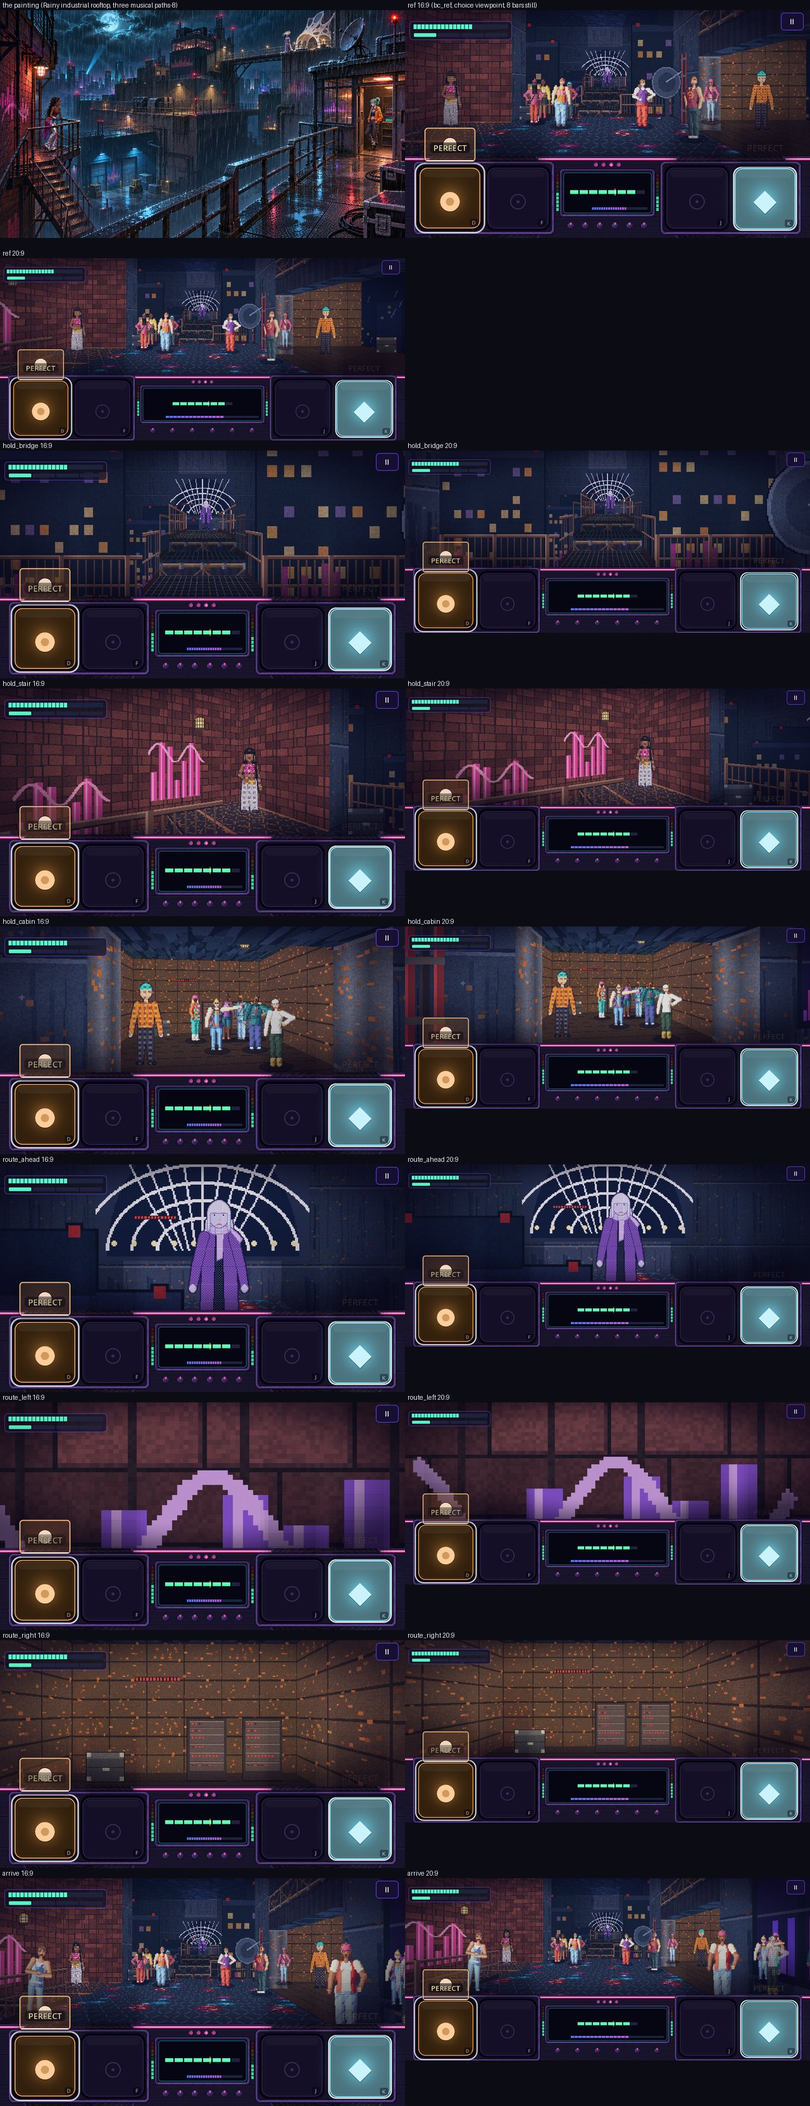
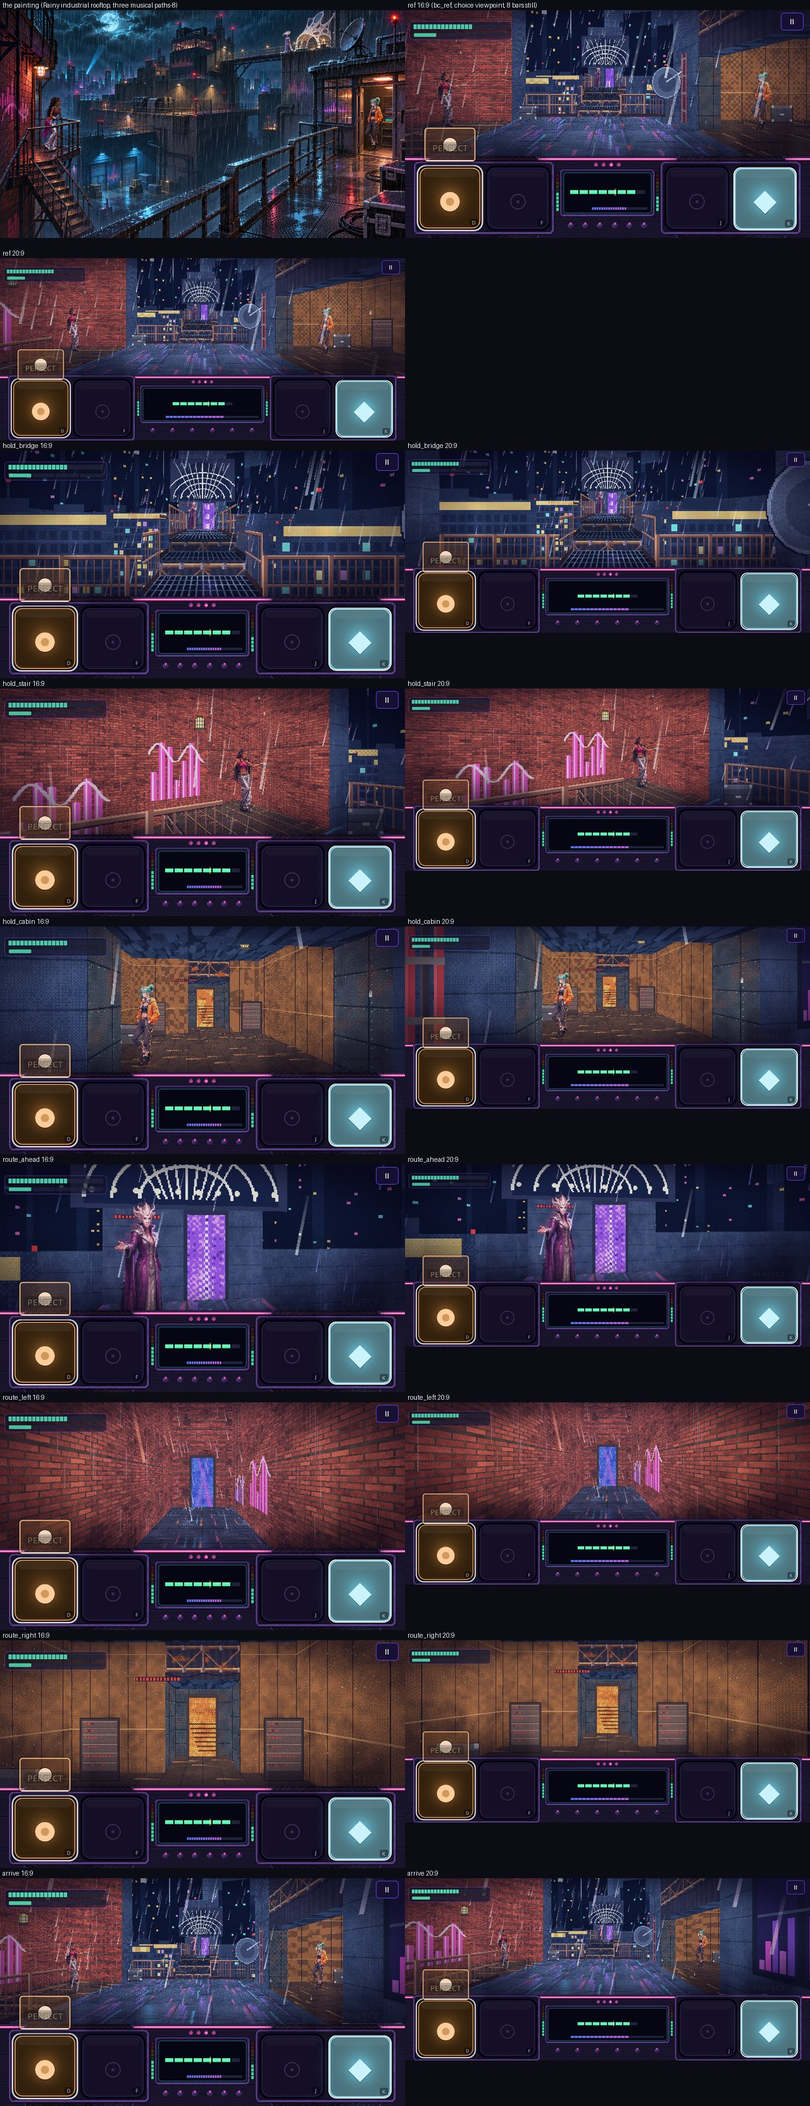
Doom polish B: Dock, Balcony, Booth reshot, scene docs rewritten (five differences, matches, does not, exposure per shot, crop per guide), Booth test block follows the desk on the floor, Booth darker haze and wider foam/cladding ramps

Changed region(s): [[0.0, 0.125, 1.0, 1.0], [0.5, 0.0, 1.0, 0.125], [0.5, 0.5312, 0.9375, 0.625]]

diff --git a/tools/doom/art/make_booth_polish.py b/tools/doom/art/make_booth_polish.py
@@ -62,7 +62,7 @@ def wall_foam():
             v = np.clip(0.25 + 0.6 * (1 - np.abs(rib - 0.35) * 2.2), 0, 1)
             v = v + (dk.vnoise(T, T, int(rng.integers(1 << 30)), ((8, 0.5), (32, 0.5))) - 0.5) * 0.25
             sel = (yy >= py) & (yy < py + 64) & (xx >= px) & (xx < px + 64)
-            arr[sel] = dk.ramp(np.clip(v[sel], 0, 1)[None, :], ("#141408", "#262612", "#3a3a1c", "#52522a", "#6e6c3a"), cell=2)[0]
+            arr[sel] = dk.ramp(np.clip(v[sel], 0, 1)[None, :], ("#0c0c04", "#22220e", "#3a3a1c", "#5a5a2e", "#8a8648"), cell=2)[0]
     for k in range(0, T, 64):
         arr[k:k + 2, :] = dk.hexa("#0a0a06")
         arr[:, k:k + 2] = dk.hexa("#0a0a06")
@@ -125,7 +125,7 @@ def shutter_open():
 
 def wall_dock():
     """The dock annex and the balcony walls: corrugated steel cladding (vertical ribs lit on one side), rust runs, rain streaks."""
-    arr = dk.ramp(dk.vnoise(T, T, 651, ((4, 0.5), (16, 0.5))) * 0.5 + 0.25, ("#1a1410", "#2e241a", "#443424", "#5c4630", "#7a5c3c"), cell=2)
+    arr = dk.ramp(dk.vnoise(T, T, 651, ((4, 0.5), (16, 0.5))) * 0.5 + 0.25, ("#120e0a", "#2a2018", "#443424", "#64503a", "#94724c"), cell=2)
     yy, xx = np.indices((T, T))
     rib = (xx % 16) / 16.0
     arr *= (0.75 + 0.45 * np.clip(1 - np.abs(rib - 0.3) * 3, 0, 1))[..., None]

diff --git a/tools/doom/author_booth.py b/tools/doom/author_booth.py
@@ -297,7 +297,7 @@ def main():
     barriers(d, names)
     d["sky"] = dict(SKY)
     d["weather"] = {"rain": WEATHER["rain"], "wind": WEATHER["wind"], "drips": [dict(x) for x in WEATHER["drips"]]}
-    d["fog"] = {"color": "#2a1618", "density": 0.018}
+    d["fog"] = {"color": "#1a0e10", "density": 0.018}
     d["palette_weight"] = 1.0
     # things
     things = [t for t in d["things"] if not str(t["id"]).startswith("bt_")]

diff --git a/docs/doom/scenes/balcony.md b/docs/doom/scenes/balcony.md
@@ -27,16 +27,39 @@ Rail (`tools/run/make_doom_balcony.py`, merged by `make_doom.py`): stay loop = b
 `contact.jpg` (the painting beside `bc_ref`, then every viewpoint as a 16:9 | 20:9 pair) and `walk_strip.jpg` (three routes, six frames each; pose tables `walk_up.txt`, `walk_left.txt`, `walk_right.txt`). Regenerate: `python3 tools/doom/shoot_balcony.py`.
 frame_check over the shots: p50 0.08, p95-p5 0.37: **under-exposed** (target p50 0.25 to 0.38); the rooftop is darker than the painting.
 
-**What matches the painting:** the three guides at three ways off the roof (brick-stair landing left, lit cabin door right, the bridge and lace dome ahead), the red brick wall with pink equalizer graffiti, the railed stair, the amber cabin, the violet window,
-railings on every edge, the dark drop with towers and red lamps beyond, a wet blue-grey night palette.
+## Stage D polish, round 1 (docs/briefs/DOOM_POLISH_BRIEF.md)
 
-**What does not:** no rain, no moon, no puddle reflections that move (floor tile only), no cloud sky (a flat storm ceiling); the far buildings are billboards and decals, not geometry, so there is no stepped skyline and no high walkway on the right; the deck is a plain
-rectangle (no pipes along the cabin wall, no roof parapet); the stair is a straight run of five treads (the painting's turns); the Night One crowd stands on the deck and in the cabin and crowds the middle of the reference view (the painting is empty); the Mothership
-guide is small (73 px). All figures and art are procedural placeholders.
+**The five biggest differences from the painting at `bc_ref`, written before changing anything:**
+
+1. The sky and the city: the painting has a full moon in torn cloud, a searchlight and a deep skyline of dark towers with lit windows over the drop; the scene had a flat ceiling tile 8 m up and the drops' walls rose to it, so no sky and no city.
+2. The Night One crowd filled the deck and the cabin (the painting's roof is empty but for the three guides).
+3. Exposure: p50 0.17, p95 - p5 0.37 over the shots (under), against the painting's moonlit blue with warm cabin light.
+4. The three thresholds stared at walls: the stair foot at a brick wall a metre away, the cabin's hold at its back wall, the bridge end at the tower's blank base.
+5. The guides were procedural placeholders (the Lounge's Floor sprite, recolours), and the surfaces flat 128 px tiles (no wet diamond plate, no puddle reflections, no rain).
+
+**What was done about each:** (1) the map's `sky` (`bc_sky.png`: moon at the upper left of the view north, two searchlight beams, a three-layer skyline with amber/violet/cyan windows and red mast lamps) on every open sector; the drops' ceilings lowered to 2.4 m (`balcony_scene.py`) so their far walls stop under a metre above the eye and the sky shows over them, `upper_tex: sky` between open sectors; three 256 px tower billboards (dark floor bands, sparse lit windows, a lit penthouse band, roof plant, a red mast lamp) in place of the flat ones; (2) the cast is empty (`story_doom_balcony.json`, no homes); (3) light 1.0 with `ambient` 0.62-0.75, lamp pools on the deck (moon blue, a red and a cyan puddle light, the cabin door's amber spill, a brick wash), lights on the towers, a lighter haze (`#1c2848`); (4) new geometry: an **alley** (3 x 7 m) runs south from the stair's foot to the club's lit side door (`bc_alley_door`, emissive, with its blue spill and an orange lamp), the cabin has a **back door** (`cback`, 1.5 x 2 m) onto a warm-lit stairwell going down (`bc_stair_glow`, emissive), and the tower base on the platform has a lit violet **door** under the lace dome; each threshold hold faces its opening; (5) guides cropped (below), 256 px tiles on the Dock's helpers (wet diamond plate with magenta/cyan/red/amber gloss and ripples, iron chequer treads with lit nosings, bar grating over the drop, riveted rusty steel, rain-streaked concrete, panelled cabin wall with rack LEDs, two brick faces), rain 0.85 with wind -12, drips at the cabin's eave and at the stair head, the cabin's door floor wet.
+
+**Matches now:** the three guides at the three ways off the roof (the brick stair landing left, the cabin doorway right, the bridge and the lace dome ahead); the moon and the city over the drop; rain on the open roof lit by the lamps; the wet deck's coloured reflections; the amber cabin against the cool blue night; an empty roof.
+
+**Does not match:** the far city is billboards (flat towers that turn with the camera) and a sky strip, not the painting's stepped roofs and high walkway; the moon is visible from the bridge and stair views, not prominent at `bc_ref` (the towers stand in front of it); the stair is five straight treads (the painting's turns); there is no parapet or pipe run along the cabin wall; the satellite dish and the lace dome are the earlier flat placeholders; the drops are dark pits (no lit yard with the forklift reads at this exposure); `hold_bridge` and `route_ahead` stay under the median (they look into the dark drop).
+
+**Guides (ruling 36):** all three CROPPED (`tools/doom/art/make_dock_crop.py`, `make_balcony_guides.main_cropped`): the **Booth** guide from this painting (`booth_balcony8`, 225 px tall there, leaning in the cabin door; a polygon outline, the dark door's colours dropped, the boots kept by hand); the **Floor** guide from the Dock's painting (`floor_dock`, 350 px there; in this painting the stair's railing crosses her legs); the **Mothership** guide from the Booth's painting (`mothership_booth`, 200 px there; 85 px in this one). No rings or beacons. The guide test (`tests/test_doom_views.gd`, balcony block) passes: 72 px (Mothership), 191 px (Floor), 208 px (Booth).
+
+**Exposure (tools/doom/frame_check.py, 16:9 shots, the picture only):** before (8 Nov, the same tool): ALL p50 0.17, p95 - p5 0.37. Now:
+
+```
+shot                      p5   p50   p95   sat   crush  blown  target
+arrive                  0.09  0.24  0.44  0.46    0.0%   0.0%  off
+hold_bridge             0.06  0.17  0.59  0.52    0.0%   0.1%  off
+hold_cabin              0.12  0.24  0.43  0.40    0.0%   0.0%  off
+hold_stair              0.10  0.28  0.48  0.47    0.0%   0.1%  off
+ref                     0.09  0.24  0.43  0.44    0.0%   0.1%  off
+route_ahead             0.06  0.17  0.49  0.56    0.0%   0.4%  off
+route_left              0.13  0.27  0.42  0.46    0.0%   0.0%  off
+route_right             0.14  0.29  0.43  0.44    0.0%   0.0%  off
+ALL                     0.08  0.24  0.46  0.47    0.0%   0.1%  contrast p95-p5 0.39
+```
 
 ## Placeholders and not done
 
-Placeholders: every texture, prop, decal and the three guides (`tools/doom/art/make_balcony_art.py`, `make_balcony_guides.py`; the Floor guide is the Lounge's sprite set, the Mothership guide the Booth's, the Booth guide a recolour); the music
-(Warehouse arrangements). Two plain drops (`isle` to `vw2`, `isle` to `ve2`) stay open without a railing because the loader needs every void joined to the map by one open portal. The Warehouse's up guide leads straight to `doom_balcony` (geography worlds, H1.6, built).
-
-Regenerate: see `docs/doom/LAUNCH.md` (balcony block).
+Placeholders: the textures, props and decals are procedural (`tools/doom/art/make_balcony_art.py`: the stage D 256 px tiles, sky and tower billboards on the Dock's helpers; the dish, lace dome, forklift, racks and cases are the earlier flat placeholders); the music (Warehouse arrangements). The guides are crops. Two plain drops (`isle` to `vw2`, `isle` to `ve2`) stay open without a railing because the loader needs every void joined to the map by one open portal. No `src/` change was made. Regenerate: `python -I tools/doom/trace/balcony_scene.py; python -I tools/doom/convert.py --scene balcony --trace tools/doom/trace/balcony_pilot.json; python -I tools/doom/art/make_balcony_art.py; python -I tools/doom/author_balcony.py`, then `--import`, then `python tools/doom/shoot_balcony.py`.

diff --git a/docs/doom/scenes/booth.md b/docs/doom/scenes/booth.md
@@ -27,15 +27,39 @@ hatch), `left` (aisle, landing, door, porch, up the stair), `right` (aisle, thro
 
 `contact.jpg` (the painting beside `bt_ref`, then every viewpoint as a 16:9 | 20:9 pair) and `walk_strip.jpg` (the three routes, six frames each; the pose tables in `walk_*.txt`). Regenerate: `python3 tools/doom/shoot_booth.py`.
 
-**What matches the painting:** the narrow aisle with the guides at left (through the window), centre (the hatch, violet) and right (the open door onto a wet, striped dock); olive foam walls, caged lamps, red LED strips, wall screens, the
-wire-mesh window, dense rack and case billboards, the violet chamber with crystals; the warm, dark exposure (frame_check over all shots: p50 0.23, p95-p5 0.40, slightly under the 0.25 to 0.38 target: sector light is already near its 1.0 ceiling, so only the lamp pools could lift it).
+## Stage D polish, round 1 (docs/briefs/DOOM_POLISH_BRIEF.md)
 
-**What does not:** the desk is a lattice-railed 1 m dais seen from 2 m back, not the painting's big foreground desk (decks and mixer are small flat billboards, no big record turntable, no headphones, mug or sleeves in close-up); the balcony guide is
-small and half hidden by the crowd and the mesh; the walls are flat tiles (no pipe runs along the ceiling, no thick door leaf, no puddle reflections); the painting's rain and wet-floor gloss are absent; the dock guide's beard and the Mothership guide's horns are not drawn (procedural placeholder sprites,
-far below `art/reference/standard/guide_floor_sprite_standard.png`); the balcony route's stair is three plain steps. The brief's "dance pit in front" is not in the painting and is not modelled: the Night One crowd dances on the **balcony outside the window** instead (57 homes, kept off the line of sight to the balcony guide).
+**The five biggest differences from the painting at `bt_ref`, written before changing anything:**
+
+1. The big desk: the painting's foreground is the desk (turntable with a red record, the mixer, the angled lamp, the mug, the headphones, the record crate); the scene had a 1 m railed dais with small flat turntable and mixer billboards, seen side-on.
+2. The guides were procedural placeholders (no beard, no horns, flat colours).
+3. The window: the painting shows rain and an empty iron balcony with the white-haired guide; the scene's Night One crowd danced outside the window and no rain fell.
+4. The surfaces: flat 128 px tiles (no wedge foam, no tread plate, no corrugated cladding) and no wet floor in the dock annex.
+5. The dock threshold held on a blank shutter wall (`route_right`), and the exposure was low (p50 0.23, p95 - p5 0.40).
+
+**What was done about each:** (1) the desk is CROPPED from the painting (`tools/doom/art/make_booth_polish.py`, an outline polygon, hard alpha, 256 px tall) and stands as one foreground billboard `bt_desk_big` (1.6 m, in the aisle's west half, 3.4 m before `bt_ref`), so from the reference viewpoint it fills the lower left as the painting's desk does, the balcony guide visible through the window to its left; the dais is lowered to the floor (`booth_scene.py`) and its handrail removed (the painting has none); the window mesh runs floor to ceiling behind the desk; the old desk billboards (decks, mixer, lamp, records) are gone, the stool stands before the desk; a warm lamp light over it; (2) the three guides cropped (below); (3) the cast is empty; the balcony outside (terrace, porch, its stair) is open to a storm sky (`bt_sky`) with rain 0.85, wind 8, drips at the window's lintel and the balcony door; (4) 256 px olive wedge foam (ribs alternating per panel), diamond tread plate, the aisle's worn grate, corrugated steel cladding, riveted plate, a joisted ceiling; the dock annex wet (`wet` 0.6, roofed so no rain falls) with sodium and yellow-stripe gloss; (5) the annex's far wall carries an open roller shutter onto the rainy street (`bt_shutter_open`, emissive, a sodium light before it), the threshold hold faces it; light 1.0, `ambient` 0.7-0.75, lamps at the window, the desk and the terrace.
+
+**Matches now:** the composition at `bt_ref`: the big desk in the lower left with its lamp lit, the window with the balcony guide in the rain beyond it, the aisle to the violet hatch with the Mothership guide, the dock door on the right with the Dock guide (bald, beard, green coat, yellow armband) in the sodium light; olive foam, caged lamps, red LEDs and screens; an empty booth.
+
+**Does not match:** the desk is a flat cut-out: it turns with the camera and reads right only from about `bt_ref` (on the walks up the aisle it looms and turns); the steel door leaf of the dock door is not drawn (the painting's thick door with its louvre); no pipe runs along the ceiling; the shutter decal's street is crude; the Mothership's chamber is the earlier flat ribbed placeholder; `hold_window` and `route_left` (the rainy balcony) are under the median.
+
+**Guides (ruling 36):** all three CROPPED from this painting (`tools/doom/art/make_dock_crop.py` CROPS `balcony_booth` 250 px, `mothership_booth` 216 px, `dock_booth` 466 px tall in the painting; `make_booth_polish.main` writes the four states). No rings or beacons.
+
+**Exposure (tools/doom/frame_check.py, 16:9 shots, the picture only):** before (8 Nov, the same tool): ALL p50 0.23, p95 - p5 0.40. Now:
+
+```
+shot                      p5   p50   p95   sat   crush  blown  target
+arrive                  0.10  0.24  0.45  0.43    0.1%   0.0%  off
+hold_dock               0.14  0.26  0.40  0.40    0.0%   0.0%  off
+hold_hatch              0.11  0.27  0.49  0.44    0.1%   0.0%  off
+hold_window             0.11  0.20  0.34  0.36    0.0%   0.0%  off
+ref                     0.10  0.23  0.45  0.43    0.1%   0.0%  off
+route_ahead             0.16  0.33  0.67  0.46    0.0%   0.1%  ok
+route_left              0.10  0.21  0.34  0.38    0.0%   0.0%  off
+route_right             0.13  0.24  0.40  0.42    0.0%   0.0%  off
+ALL                     0.11  0.24  0.47  0.42    0.0%   0.1%  contrast p95-p5 0.36
+```
 
 ## Placeholders and not done
 
-Placeholders: every texture, prop, decal and the three guides (`tools/doom/art/make_booth_art.py`, procedural); the music (Warehouse arrangements). Not done: no state-driven guide animation beyond the sprite per state; no `src/` hook was needed.
-
-Regenerate: see `docs/doom/LAUNCH.md` (booth block).
+Placeholders: the textures, props and decals are procedural (`tools/doom/art/make_booth_art.py`, overwritten in part by `make_booth_polish.py`; the racks, cases, crystals, console, screens and the Mothership chamber's tiles are the earlier flat placeholders); the music (Warehouse arrangements). The desk and the guides are crops of the painting. No `src/` change was made. Regenerate: `python -I tools/doom/trace/booth_scene.py; python -I tools/doom/convert.py --scene booth --trace tools/doom/trace/booth_pilot.json; python -I tools/doom/art/make_booth_art.py; python -I tools/doom/author_booth.py`, then `--import`, then `python tools/doom/shoot_booth.py`.

diff --git a/docs/doom/scenes/dock.md b/docs/doom/scenes/dock.md
@@ -27,15 +27,39 @@ door, passage to `dk_floor_door`), `right` (street, yard to `dk_under`), `stumbl
 
 `contact.jpg` (the painting beside `dk_ref`, then every viewpoint as a 16:9 | 20:9 pair) and `walk_strip.jpg` (three routes; pose tables `walk_up.txt`, `walk_left.txt`, `walk_right.txt`). Regenerate: `python3 tools/doom/shoot_dock.py`.
 
-**What matches the painting:** the composition at `dk_ref`: brick wall and open club door with a figure at left, the street running to a violet figure at its end, the van and the lit furnace-side figure at right, the shutter wall and bollard in the near right,
-yellow apron edge; the palette (red brick, dark blue towers with amber windows, sodium and blue light).
+## Stage D polish, round 1 (docs/briefs/DOOM_POLISH_BRIEF.md)
 
-**What does not:** no rain falls and there are no wet reflections (only painted gloss on the floor tiles); the street is straight, the painting's curves left; the sky is a dark ceiling tile 7.5 m up, not a sky; the fence is a wall decal, the two near
-bollards are small and the far-right pallets and case are fewer than the painting's; the Underworld guide stands (the painting seats him with a drum, which is a separate prop beside him); the Floor guide is the Lounge's sprite, not leaning on the door;
-the wall tiles repeat. The three threshold shots (`route_*`) look at a wall a metre or two ahead (the street's end wall, the passage's end, the yard wall), so they read as blank surfaces.
-Exposure (frame_check over the seven kept shots): p50 0.22, p95-p5 0.45, crushed 0 %, blown 0.2 %, under the 0.25 to 0.38 target in the median.
+**The five biggest differences from the painting at `dk_ref`, written before the second half of the work (the first agent had done the sky, the street, the passage, the tiles and the crops):**
+
+1. Exposure and contrast: the painting has deep darks (the towers, the corners) and bright warm reflections; the scene was a flat violet mid-grey (p50 0.22, p95 - p5 0.32 over the shots).
+2. The wet floor: the painting's lamps throw long vertical reflections on standing water; the baked gloss broke into grain at mid distance (1-texel dither under nearest sampling, no mipmaps) and no rain fell.
+3. The towers: the painting's buildings are dark masses with a few lit windows; ours were evenly gridded with many lit windows and a lifted haze.
+4. The club passage behind the door: the painting's blue doorway is a dark blue with a bright light; ours was a flat bright-blue wash with no contrast.
+5. The far street (the ahead hold): dark and lamp-less beyond the second street lamp, so the threshold read as a dim corridor.
+
+**What was done about each:** (1) every sector's song-time light is 1.0 and the flat light away from the lamps is cut to `ambient` 0.4-0.5 (0.7 in the passage), the fog and the sky are darker (`#17152e`, sky lift 0.04); (2) the gloss and the floors' ramps dither in 2 x 2 texel blocks, a solid bright core in each smear, two-texel ripple rings, 2 x 2 grit (`make_dock_art.wet_gloss`, `ramp(cell=2)`); the map's `weather` (rain 0.8, wind 10, drips at the canopy's edge and the club door's lintel) adds the rain streaks and the engine's gloss bands; (3) tower faces darker with fewer lit windows (11 to 17 %), brighter mid-tones so the median holds; (4) the passage's panels dark navy with a bright LED strip and its glow, the floor dark rubber with the strip's long blue reflections; (5) a fourth street lamp (east side, 27.5 m) and two lamp pools on the far street.
+
+**Matches now:** the composition at `dk_ref` as before (brick wall and lit club door with the Floor guide left, the street to the violet Mothership guide, the van, the furnace and the seated Underworld guide right, the bollards and the yellow apron edge); rain falling on the six open sectors, lit by the lamps (orange by the sodium lamps, blue in the open), the canopy and the passage dry, drips at the eaves; the wet gloss bands under the lamps; the storm sky; the palette (red brick, dark blue towers with amber windows, sodium against the cool rain light).
+
+**Does not match:** the street is straight (the painting's curves left); the near right of the painting (a big flight case, more pallets, the shutter close by) is thinner here; the fence is a wall decal; the caged hanging lamp and the chain read small; the floor gloss is the engine's bands, not a mirror (nothing is reflected); the furnace and van are flat billboards; `route_ahead` stays dark (it looks up the street at the dark towers, p50 0.2) and `route_left` (the blue passage) is low in contrast.
+
+**Guides (ruling 36):** all three CROPPED (`tools/doom/art/make_dock_crop.py`): Floor from this painting (350 px there), Mothership from the Booth's painting (200 px there; 130 px in this one), Underworld from `Rainy Dock of Three Paths-7.png` (seated behind crates; his legs are hidden in that painting). No rings or beacons.
+
+**Exposure (tools/doom/frame_check.py, 16:9 shots, the picture only):** before this round's second half (same tool, 8 Nov): ALL p50 0.22, p95 - p5 0.32. Now:
+
+```
+shot                      p5   p50   p95   sat   crush  blown  target
+arrive                  0.15  0.29  0.54  0.34    0.0%   0.0%  off
+hold_door               0.13  0.28  0.50  0.51    0.0%   0.1%  off
+hold_street             0.13  0.25  0.61  0.38    0.0%   0.1%  ok
+hold_yard               0.12  0.33  0.60  0.25    0.0%   0.0%  ok
+ref                     0.14  0.29  0.54  0.35    0.0%   0.0%  ok
+route_ahead             0.12  0.22  0.48  0.43    0.0%   0.0%  off
+route_left              0.13  0.26  0.40  0.64    0.0%   0.1%  off
+route_right             0.11  0.29  0.58  0.29    0.0%   0.1%  ok
+ALL                     0.13  0.28  0.56  0.40    0.0%   0.1%  contrast p95-p5 0.43
+```
 
 ## Placeholders and not done
 
-Placeholders: every texture, prop, decal and the three guides (`tools/doom/art/make_dock_art.py`, `make_dock_guides.py`, procedural); the music (Warehouse arrangements). Hooks needed: a real sky (the map's `sky` is empty, the
-ceiling tile stands in), rain particles and wet-floor reflection. No `src/` change was made.
+Placeholders: the textures, props and decals are procedural (`tools/doom/art/make_dock_art.py`; the 256 px tiles drawn to the style guide, the props older); the music (Warehouse arrangements). The guides are crops of the paintings, not placeholders. No `src/` change was made. Regenerate: `python -I tools/doom/art/make_dock_art.py; python -I tools/doom/author_dock.py`, then `--import`, then `python tools/doom/shoot_dock.py`.
